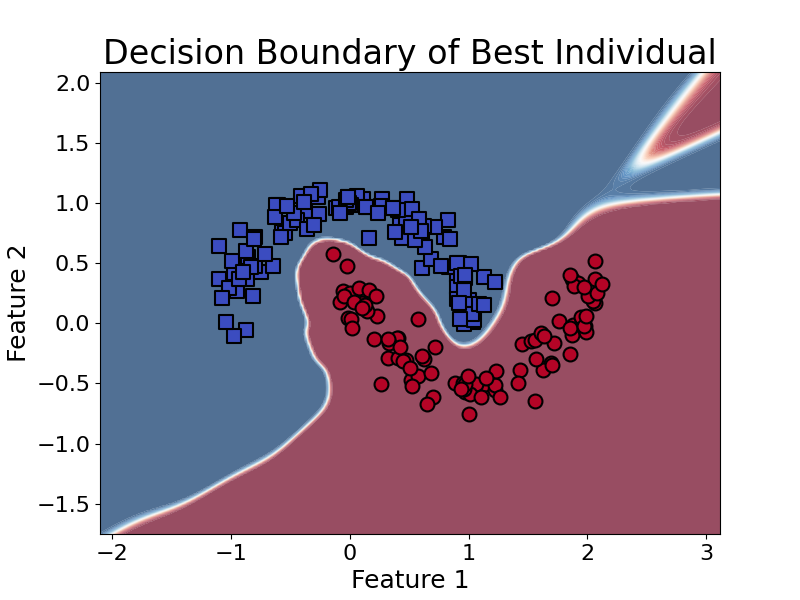
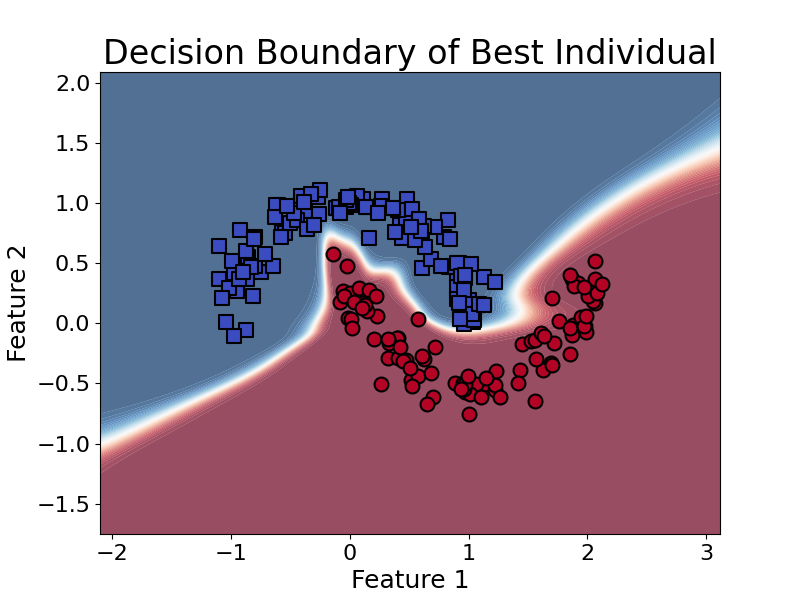
changed mutation rate of weights back to 1/num_params

Changed region(s): [[0.125, 0.12, 0.9062, 0.9]]

diff --git a/MLP.py b/MLP.py
@@ -144,7 +144,7 @@ class MLP(nn.Module):
             if P == 'f32':
                 mask = torch.ones_like(state_dict[k].to(torch.float32))
             else:
-                mask = torch.rand_like(state_dict[k].to(torch.float32)) < 1/state_dict[k].numel()#mutation_rate
+                mask = torch.rand_like(state_dict[k].to(torch.float32)) < mutation_rate
             mutated_state_dict[k] = state_dict[k]
             mutated_state_dict[k][mask] = op(state_dict[k][mask])
         

diff --git a/MNIST.py b/MNIST.py
@@ -44,10 +44,10 @@ y_test = y_test.to(device)
 
 # Define network parameters for MNIST
 shapes = [784, 100, 10]
-activation = torch.relu
+activation = torch.tanh
 output_activation = lambda x: x
-precision = 'i4'
-bias_std = 0.5
+precision = 'i2'
+bias_std = 0.1
 mutation_std = 1
 scale_std = 0.1
 

diff --git a/two_moons.py b/two_moons.py
@@ -28,7 +28,7 @@ shapes = [2, 64, 64, 1]
 activation = torch.tanh
 output_activation = lambda x: x
 precision = 'i2'
-bias_std = 0.5
+bias_std = 0.1
 mutation_std = 1
 scale_std = 0.1
 
